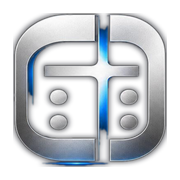
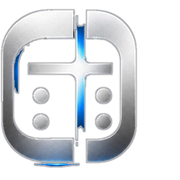
v3: icono rehecho en alta calidad (transparente, claro/oscuro) + risa humana realista

diff --git a/app.js b/app.js
@@ -150,25 +150,71 @@ function softNote(freq, t0, dur, type, vol) {
 
 var PULLA_SFX = {
   risa: function () {
-    // Carcajada: ráfagas cortas "ja-ja-ja" con tono descendente
+    // Carcajada humana: "ja-ja-ja-ja" con timbre vocal (formantes de la "a"),
+    // respiración, ritmo e intensidad naturales; nada de tono robótico.
     if (!AC) return;
     var t = AC.currentTime + 0.02;
-    for (var i = 0; i < 6; i++) {
-      (function (i) {
-        var t0 = t + i * 0.13;
-        var o = AC.createOscillator(); o.type = 'triangle';
-        var f0 = 310 - i * 22;
-        o.frequency.setValueAtTime(f0, t0);
-        o.frequency.exponentialRampToValueAtTime(Math.max(120, f0 * 0.6), t0 + 0.09);
-        var bp = AC.createBiquadFilter();
-        bp.type = 'bandpass'; bp.frequency.value = 950; bp.Q.value = 1.1;
-        var g = AC.createGain();
-        g.gain.setValueAtTime(0.0001, t0);
-        g.gain.exponentialRampToValueAtTime(0.5, t0 + 0.015);
-        g.gain.exponentialRampToValueAtTime(0.0001, t0 + 0.11);
-        o.connect(bp); bp.connect(g); g.connect(master);
-        o.start(t0); o.stop(t0 + 0.16);
-      })(i);
+    // Ruido compartido para la respiración de cada sílaba
+    var nb = AC.createBuffer(1, Math.floor(AC.sampleRate * 1.5), AC.sampleRate);
+    var nd = nb.getChannelData(0);
+    for (var n = 0; n < nd.length; n++) nd[n] = Math.random() * 2 - 1;
+
+    function ha(t0, f0, dur, vol) {
+      // Cuerda vocal: sierra rica en armónicos -> formantes de "a" (730/1090 Hz)
+      var o = AC.createOscillator(); o.type = 'sawtooth';
+      o.frequency.setValueAtTime(f0 * 1.12, t0);
+      o.frequency.exponentialRampToValueAtTime(Math.max(90, f0 * 0.68), t0 + dur);
+      var f1 = AC.createBiquadFilter(); f1.type = 'bandpass';
+      f1.frequency.value = 730; f1.Q.value = 1.3;
+      var f2 = AC.createBiquadFilter(); f2.type = 'bandpass';
+      f2.frequency.value = 1090; f2.Q.value = 1.5;
+      var g = AC.createGain();
+      g.gain.setValueAtTime(0.0001, t0);
+      g.gain.exponentialRampToValueAtTime(vol, t0 + 0.018);
+      g.gain.exponentialRampToValueAtTime(0.0001, t0 + dur);
+      o.connect(f1); o.connect(f2); f1.connect(g); f2.connect(g); g.connect(master);
+      o.start(t0); o.stop(t0 + dur + 0.05);
+      // Aire de la risa: ruido filtrado mezclado bajo
+      var ns = AC.createBufferSource(); ns.buffer = nb;
+      var nf = AC.createBiquadFilter(); nf.type = 'bandpass';
+      nf.frequency.value = 950; nf.Q.value = 0.8;
+      var ng = AC.createGain();
+      ng.gain.setValueAtTime(0.0001, t0);
+      ng.gain.exponentialRampToValueAtTime(vol * 0.28, t0 + 0.02);
+      ng.gain.exponentialRampToValueAtTime(0.0001, t0 + dur);
+      ns.connect(nf); nf.connect(ng); ng.connect(master);
+      ns.start(t0); ns.stop(t0 + dur + 0.05);
+    }
+
+    // Inhalación previa (0.25 s)
+    (function () {
+      var ns = AC.createBufferSource(); ns.buffer = nb;
+      var nf = AC.createBiquadFilter(); nf.type = 'bandpass';
+      nf.frequency.value = 600; nf.Q.value = 0.7;
+      var g = AC.createGain();
+      g.gain.setValueAtTime(0.0001, t);
+      g.gain.exponentialRampToValueAtTime(0.10, t + 0.22);
+      g.gain.exponentialRampToValueAtTime(0.0001, t + 0.27);
+      ns.connect(nf); nf.connect(g); g.connect(master);
+      ns.start(t); ns.stop(t + 0.32);
+    })();
+
+    // Secuencia: [retardo, tono, duración, volumen] con arco natural
+    // (arranca suave, crece, y se apaga riendo) + jitter de ritmo
+    var seq = [
+      [0.30, 296, 0.105, 0.30],
+      [0.445, 318, 0.115, 0.42],
+      [0.60, 306, 0.120, 0.50],
+      [0.765, 288, 0.125, 0.55],
+      [0.94, 268, 0.130, 0.52],
+      [1.12, 248, 0.140, 0.44],
+      [1.31, 226, 0.160, 0.33]
+    ];
+    for (var i = 0; i < seq.length; i++) {
+      (function (s) {
+        var jit = (Math.random() - 0.5) * 0.018; // ritmo humano, no metrónomo
+        ha(t + s[0] + jit, s[1] * (1 + (Math.random() - 0.5) * 0.06), s[2], s[3]);
+      })(seq[i]);
     }
   },
   corona: function () {

diff --git a/sw.js b/sw.js
@@ -1,5 +1,5 @@
 /* Cristo Domino — Service Worker. App shell cacheado para uso sin conexión. */
-var CACHE = 'cristo-domino-v2';
+var CACHE = 'cristo-domino-v3';
 var ASSETS = [
   './',
   './index.html',
